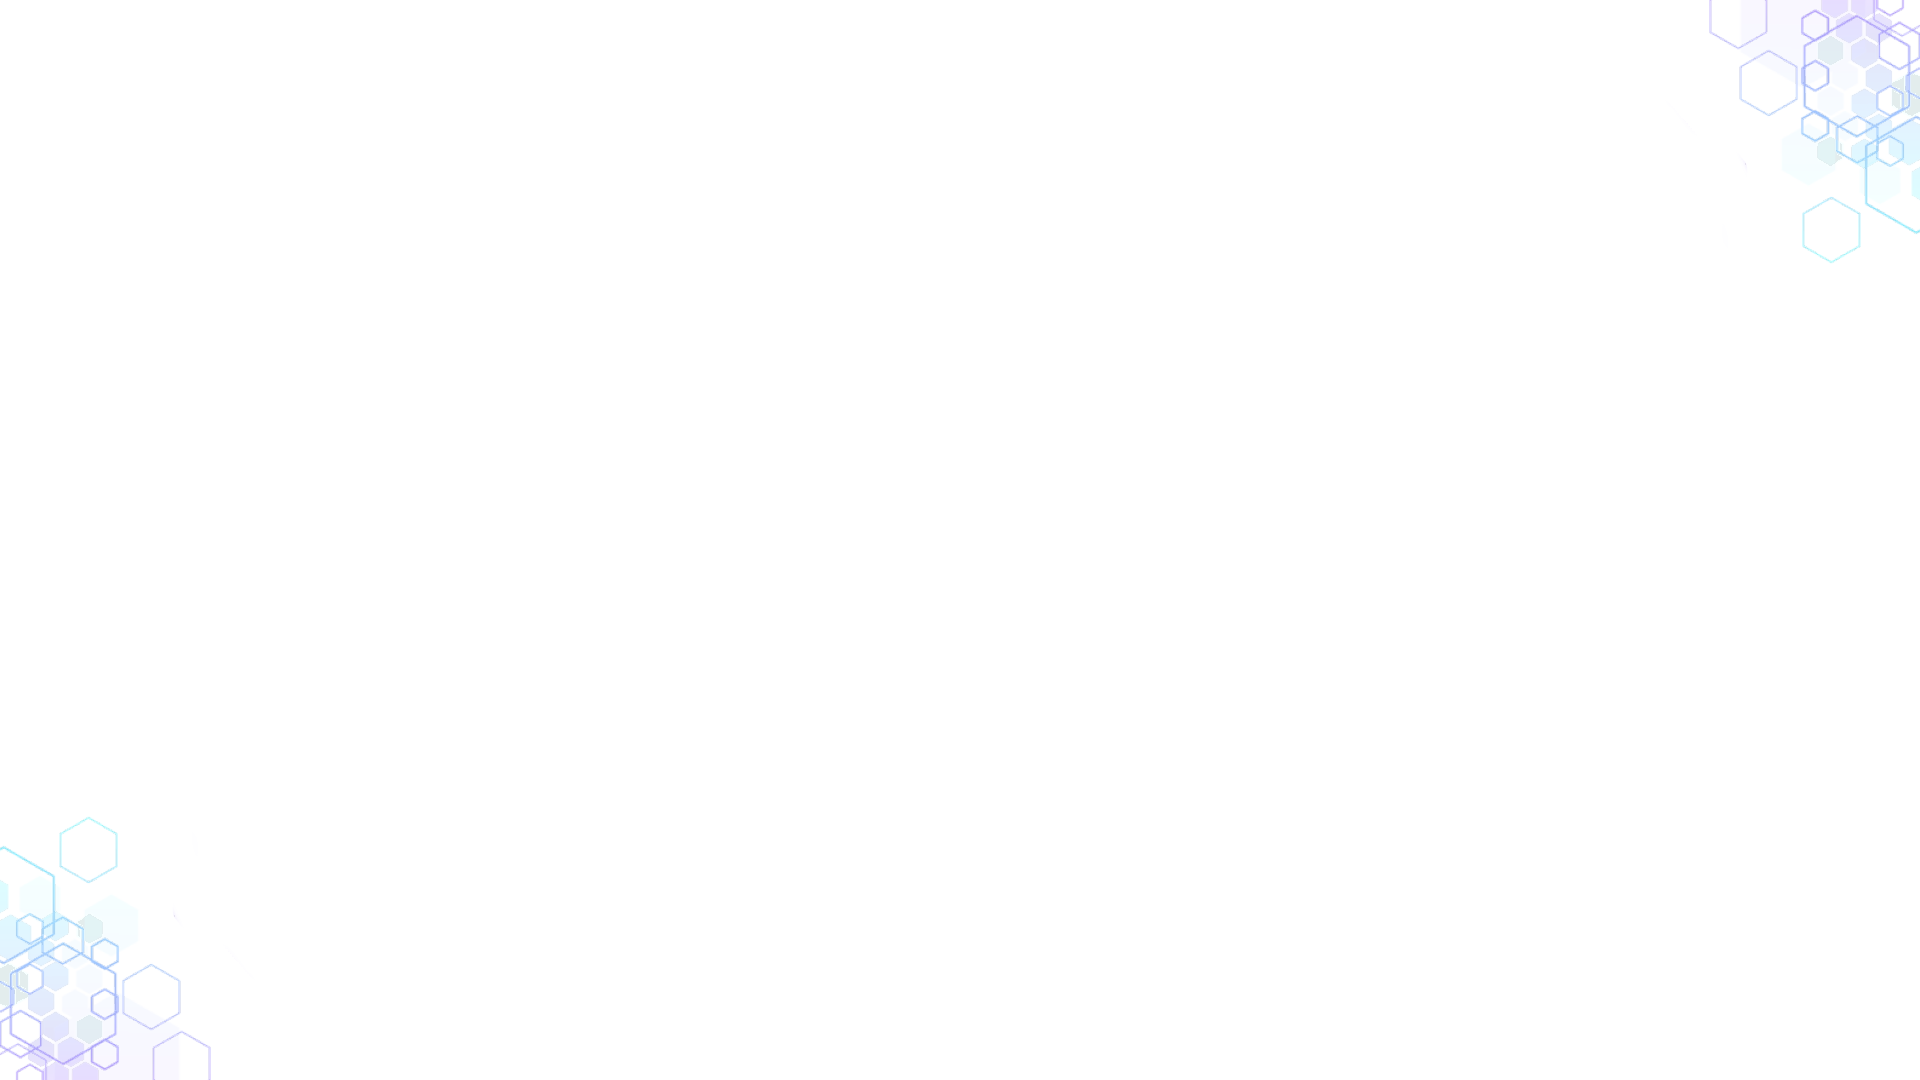
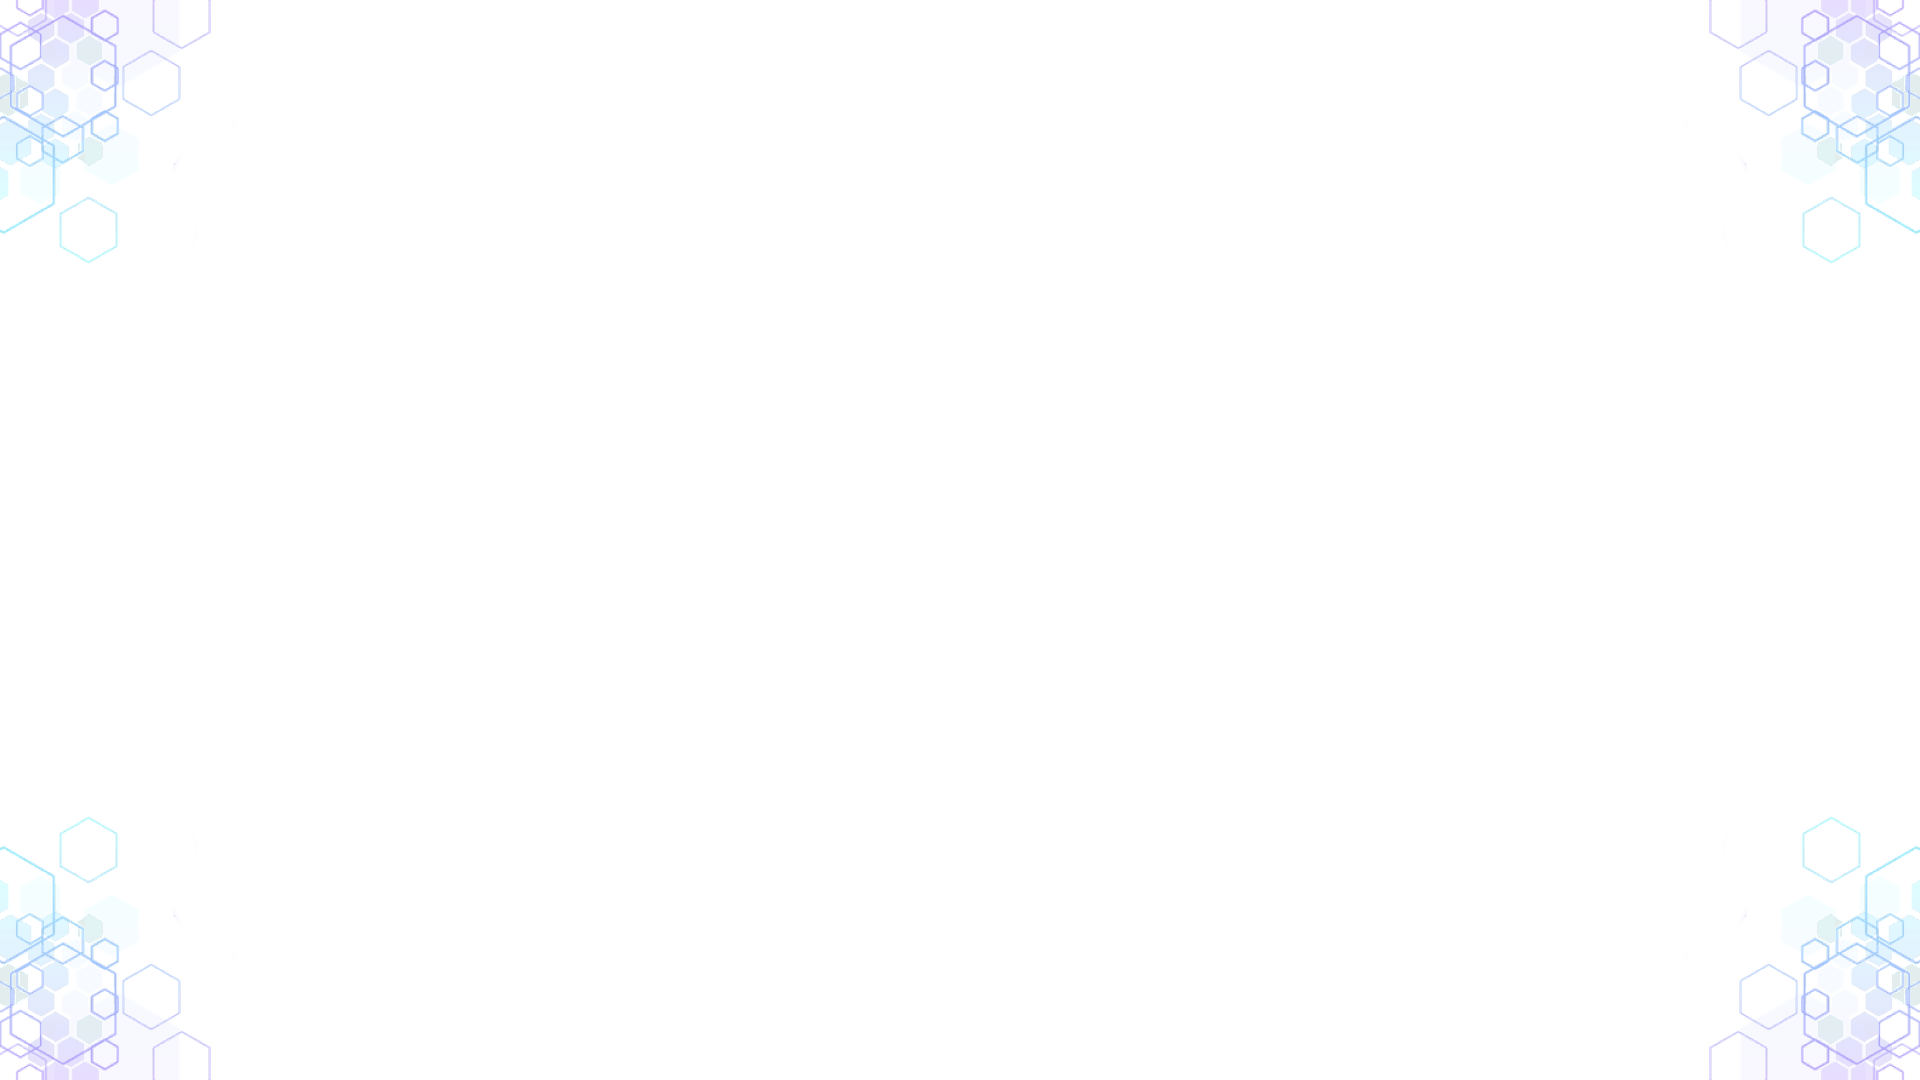
s

Changed region(s): [[0.9062, 0.7639, 1.0, 1.0], [0.0, 0.0, 0.0938, 0.2444]]

diff --git a/pages/index.vue b/pages/index.vue
@@ -118,7 +118,7 @@ function handleItemClick(item) {
       :description="page.development.description"
       :headline="page.development.headline"
       :style="{
-        backgroundImage: 'url(/chadbanneredit2.png)',
+        backgroundImage: 'url(/chadbanneredit.png)',
         backgroundSize: 'cover',
         backgroundPosition: 'center center',
       }"
@@ -201,7 +201,7 @@ function handleItemClick(item) {
       :title="page.testimonials.title"
       :description="page.testimonials.description"
       :style="{
-        backgroundImage: 'url(/chadbanneredit2.png)',
+        backgroundImage: 'url(/chadbanneredit.png)',
         backgroundSize: 'cover',
         backgroundPosition: 'center center',
       }"
